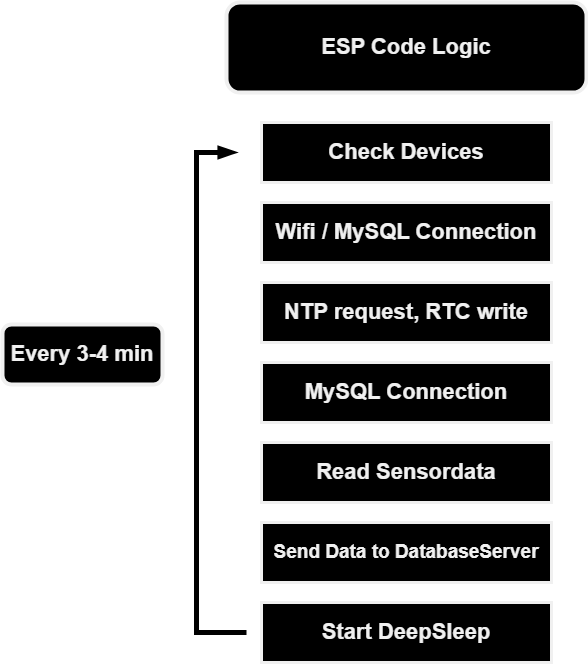
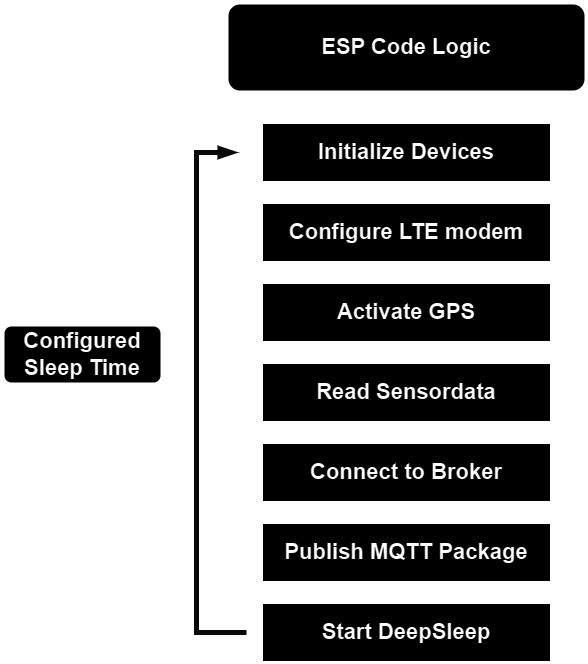
Update ESP32\README.md

diff --git a/ESP32/README.md b/ESP32/README.md
@@ -1,75 +1,103 @@
-# ESP32:
+# ESP32
 
-## Test Scripts:
+## Test Scripts
 
-In the test scripts all functions for the ESP32 are tested seperately. This makes it easier to find errors and to test and debug everything.   
+In the test scripts all functions for the ESP32 are tested seperately. This makes it easier to find errors and debug everything.   
 
-## Main Script:
+## Main Script
 
 <p align="center">
-    <img src="https://github.com/lstranskyTGM/uWeather/blob/main/ESP32/img/codeLogic.png?raw=true" alt="codeLogic" width="400" align="center">
+    <img src="https://github.com/lstranskyTGM/uWeatherNG/blob/main/ESP32/img/codeLogic.png?raw=true" alt="codeLogic" width="400" align="center">
 </p>
 
-The ESP32 starts off setting all pins, variables, ... Then the availability off all devices is checked and the Bootcount updates (that gets saved during DeepSleep). The wifi connection gets established. After that the ESP32 requests an NTP (Network-Time-Protocol) Server and writes the time into the RTC (Real-Time-Clock). Next the MySQL Server is connected to and the sensor data is send to the server. The ESP32 closes all Connections and goes into DeepSleep for a before set Intervall (3-4 minutes). The ESP32 wakes up and starts again.
+The ESP32 script initiates by setting up various sensors and modules, including GPS, and collecting environmental data. It then attempts to transmit this information via MQTT over an LTE connection. If the connection is established, the collected data is published to a designated topic on an MQTT broker. After transmission, the ESP32 enters a deep sleep mode to conserve energy, periodically waking to update and resend data. Throughout this process, all status updates and messages are displayed both on the Serial Monitor and an OLED display. This configuration ensures continuous, efficient monitoring of environmental conditions with minimal human intervention.
 
-All the status information is also printed on the Serial Monitor and the OLED Display.
+## Sensor / Module List
 
-## Other:
-
-- MySQLconnection: https://github.com/ChuckBell/MySQL_Connector_Arduino
-- RequestNTP: https://lastminuteengineers.com/esp32-ntp-server-date-time-tutorial/
-- RTC: https://www.theelectronics.co.in/2022/04/how-to-use-internal-rtc-of-esp32.html
-- DeepSleep: https://randomnerdtutorials.com/esp32-deep-sleep-arduino-ide-wake-up-sources/
-- RainSensor: https://diyi0t.com/rain-sensor-tutorial-for-arduino-and-esp8266/
-- GPS Module: https://how2electronics.com/esp32-gps-tracker-using-l86-gps-module-oled-display/
-- OLED Display: https://lastminuteengineers.com/oled-display-esp32-tutorial/
-
-# Sensor List:
-
-## GY-302 BH1750:
+### GY-302 BH1750 Light Sensor Module
 
 The GY-302 BH1750 Photoresistor module is used to measure light intensity. The resistance will decrease in the presence of light and increase in the absence of it. 
 
-Light intensity: lx
+**Light Intensity:** lux
 
-[Buy here](https://www.az-delivery.de/products/gy-302-bh1750-lichtsensor-lichtstaerke-modul-fuer-arduino-und-raspberry-pi)
+[Buy here](https://www.az-delivery.com/products/gy-302-bh1750-lichtsensor-lichtstaerke-modul-fuer-arduino-und-raspberry-pi)
 
-## BME280:
+### GY-BME280 Environmental Sensor [I2C]
 
-Humidity sensor measuring relative humidity, barometric pressure and ambient temperature
+This sensor measures relative humidity, barometric pressure, and ambient temperature, communicating via the I2C bus.
 
-Relative humidity: %
+**Relative Humidity:** %RH
 
-Barometric pressure: hPa
+**Barometric Pressure:** hPa
 
-Ambient temperature: m
+**Ambient Temperature:** °C
 
 [Buy here](https://www.bosch-sensortec.com/products/environmental-sensors/humidity-sensors-bme280/)
 
-## FC-37 Rain Sensor Module:
+### FC-37 Rain Sensor Module
 
-Raindrop Rain Sensor Module is a module used to detect and measure rain. It usually consists of a sensor that can detect the presence of water droplets, and an electronic circuit that can process the signal from the sensor and output an indication of whether it is raining or not. 
+The FC-37 module detects rain, with lower resistance signaling rain presence and triggering a high output signal.
 
-Rain: (true/false)
+**Rain:** True/False
 
-[Buy here](https://www.az-delivery.de/en/products/regen-sensor-modul)
+[Buy here](https://www.az-delivery.com/en/products/regen-sensor-modul)
 
-## ublox NEO-6M GPS Module:
+### GY-SGP30 Air Quality Sensor [I2C]
 
-The NEO-6 module series is a family of stand-alone GPS receivers featuring the high performance u-blox 6 positioning engine.
+THe GY-SGP30 is a digital air quality sensor that measures the amount of volatile organic compounds (VOCs) in the air. The sensor also measures the equivalent carbon-dioxide (eCO2) concentration.
+It uses the I2C bus to communicate with the ESP32.
 
-Longitute: °
-Latitude: °
+**Total Volatile Organic Compounds (TVOC):** ppb
 
-[Buy here](https://www.amazon.de/-/en/ICQUANZX-GY-NEO6MV2-Control-Ceramic-Antenna/dp/B088LR3488)
+**Equivalent Carbon-dioxide (eCO2):** ppm
 
-# ToDo List:
+[Buy here](https://funduinoshop.com/elektronische-module/sensoren/gase/gy-sgp30-tvoc-sensor-fuer-luftqualitaet-eco2)
+
+### KY-003 Digital Hall Effect Sensor (Anemometer)
+
+This sensor detects the magnetic field of a spinning magnet attached to an anemometer to calculate wind speed.
+
+**Wind Speed:** km/h
+
+[Buy here](https://www.az-delivery.com/en/products/hall-sensor-modul-digital)
+
+### Rotary Hall Angle Sensor (Wind Vane)
+
+The rotary hall angle sensor is used to measure the angle of the wind vane.
+
+**Wind Direction:** Degrees (°)
+
+[Buy here](https://www.aliexpress.com/item/4000143910873.html?gatewayAdapt=glo2deu)
+
+### 1.3 inch OLED Display [I2C]
+
+This OLED display shows the status and data collected by the ESP32, utilizing the I2C bus for communication.
+
+[Buy here](https://www.az-delivery.de/en/products/1-3zoll-i2c-oled-display)
+
+### Micro SD Card Reader Module
+
+The micro SD card reader module is used to configure the Main Script.
+
+[Buy here](https://www.az-delivery.de/en/products/copy-of-spi-reader-micro-speicherkartenmodul-fur-arduino)
+
+### SIM700E NB-IoT Module
+
+The SIM7000E NB-IoT Module is used to connect the ESP32 to the internet, sending the data to a MQTT broker.
+It also has a GPS module that can be used to get the current location of the ESP32.
+
+**Latitude:** Degrees (°)
+
+**Longitude:** Degrees (°)
+
+**Altitude:** Meters (m)
+
+[Buy here](https://www.waveshare.com/sim7000e-nb-iot-hat.htm)
+
+## ToDo List
 
 - [x] ~~Write all test scripts~~
-- [x] ~~Write the main script using testscripts~~
-- [x] ~~Find a power source for the esp32 (akku, solar panel, ...)~~
-- [x] ~~3D print a case for the esp32~~
-- [x] ~~Make the sensors protected against rain and direct daylight~~
+- [x] ~~Write the main script~~
 
 
 
